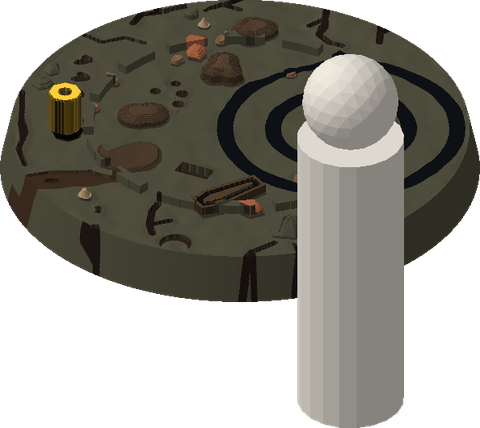
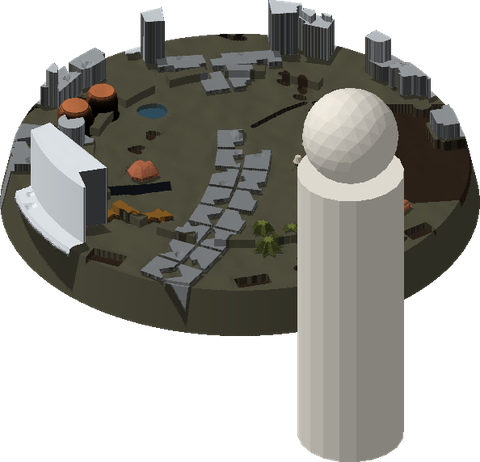
2.4.0: faster, a print plate (3MF), keys for everything, a window you can arrange, the 2.3.0 stop fixed, fresh example pictures

diff --git a/README.md b/README.md
@@ -44,7 +44,13 @@ version is always the one marked **Latest** on the [Releases page](https://githu
 download `bbb_kit_<version>.zip` there and unzip it anywhere. If the number in your `VERSION` file is lower than
 the one on that page, yours is an older one. (`python tools\make_release.py` makes the zip.)
 
-## New since 2.3.1 (in the repository, not in a release yet)
+## What is new in 2.4: faster, a print plate, keys for everything, a window you can arrange
+
+![Sixteen bases built by 2.4, two of every size from 30 to 160 mm](examples/sheet_2.4.0.png)
+
+*Sixteen bases freshly built by 2.4 with the default settings: two of every size from 30 to 160 mm.*
+
+**The 2.3.0 stop is fixed.** The urban style at 25 mm square no longer stops while drawing its choices.
 
 **Faster, and kinder to a game in front.** A 160 mm base builds in about 20-50 s instead of 70-115 s, and eight choice
 cards draw in a few seconds. Every base comes out byte for byte the same as before. The building runs at below-normal
@@ -89,6 +95,12 @@ goes on `plate_2.3mf` and on. Open it in the slicer: one object per base. The ST
 could become defaults:
 - `feet_pad`: a clear spot of plain textured ground for the figure's feet.
 - `small_base_cap`: at most 4-5 details on a base under 33 mm.
+
+**Mend a failed design (OFF by default).** When a picked design fails the print check on a mesh fault, the kit can first
+build the same design again with paper-thin faces cleaned up, before it makes a different variant. It saves about 1 in 5
+such bases, so it stays off; turn it on under "More settings" if you would rather keep your pick more often.
+
+With every new setting off, each base comes out byte for byte the same as in 2.3.
 
 ## What is new in 2.3 (and 2.3.1): square bases, a window that fits your screen, textured ground
 
@@ -437,20 +449,20 @@ thing apart; the print is one colour.
 
 ## What the bases look like
 
-Two bases of every size, each in a style drawn at random, exactly as the kit made them (pictures of the finished
+Two bases of every size, built by 2.4.0 with the default settings, exactly as the kit made them (pictures of the finished
 STL files; `python tools\make_examples.py` makes a fresh set).
 
 <!-- EXAMPLES -->
 | Size | | |
 |---|---|---|
-| **30 mm** | ![swamp 30 mm](examples/030mm_1_swamp.png)<br>swamp: "boat landing" | ![ashveil 30 mm](examples/030mm_2_ashveil.png)<br>ashveil: "buried transport" |
-| **40 mm** | ![graveyard 40 mm](examples/040mm_1_graveyard.png)<br>graveyard: "hanging tree" | ![beast 40 mm](examples/040mm_2_beast.png)<br>beast: "jaw line" |
-| **50 mm** | ![highland 50 mm](examples/050mm_1_highland.png)<br>highland: "ruined tower" | ![urban 50 mm](examples/050mm_2_urban.png)<br>urban: "bomb site" |
-| **60 mm** | ![cynder 60 mm](examples/060mm_1_cynder.png)<br>cynder: "ash burial" | ![sundered 60 mm](examples/060mm_2_sundered.png)<br>sundered: "fallen cathedral wall" |
-| **80 mm** | ![infestation 80 mm](examples/080mm_1_infestation.png)<br>infestation: "egg chamber" | ![corridor 80 mm](examples/080mm_2_corridor.png)<br>corridor: "airlock" |
-| **100 mm** | ![maahl 100 mm](examples/100mm_1_maahl.png)<br>maahl: "buried temple" | ![frontier 100 mm](examples/100mm_2_frontier.png)<br>frontier: "prospector s camp" |
-| **130 mm** | ![blight 130 mm](examples/130mm_1_blight.png)<br>blight: "spike garden" | ![obelis 130 mm](examples/130mm_2_obelis.png)<br>obelis: "glyph plaza" |
-| **160 mm** | ![mine 160 mm](examples/160mm_1_mine.png)<br>mine: "shaft head" | ![badlands 160 mm](examples/160mm_2_badlands.png)<br>badlands: "boot hill" |
+| **30 mm** | ![swamp 30 mm](examples/030mm_1_swamp.png)<br>swamp: "serpent pool" | ![highland 30 mm](examples/030mm_2_highland.png)<br>highland: "sheepfold" |
+| **40 mm** | ![graveyard 40 mm](examples/040mm_1_graveyard.png)<br>graveyard: "crypt door" | ![forest 40 mm](examples/040mm_2_forest.png)<br>forest: "stream ford" |
+| **50 mm** | ![urban 50 mm](examples/050mm_1_urban.png)<br>urban: "bomb site" | ![coast 50 mm](examples/050mm_2_coast.png)<br>coast: "jetty" |
+| **60 mm** | ![sundered 60 mm](examples/060mm_1_sundered.png)<br>sundered: "collapsed arcade" | ![temple 60 mm](examples/060mm_2_temple.png)<br>temple: "sealed vault" |
+| **80 mm** | ![infestation 80 mm](examples/080mm_1_infestation.png)<br>infestation: "overrun cargo" | ![dungeon 80 mm](examples/080mm_2_dungeon.png)<br>dungeon: "treasure hoard" |
+| **100 mm** | ![frontier 100 mm](examples/100mm_1_frontier.png)<br>frontier: "storefront" | ![trederra 100 mm](examples/100mm_2_trederra.png)<br>trederra: "gun pit" |
+| **130 mm** | ![fortress 130 mm](examples/130mm_1_fortress.png)<br>fortress: "armoury" | ![cynder 130 mm](examples/130mm_2_cynder.png)<br>cynder: "forge altar" |
+| **160 mm** | ![mine 160 mm](examples/160mm_1_mine.png)<br>mine: "tunnel mouth" | ![badlands 160 mm](examples/160mm_2_badlands.png)<br>badlands: "old diggings" |
 <!-- /EXAMPLES -->
 
 **Every base is one place.** A base is not a pile of objects: it has a subject (a mine shaft, a wreck, a shrine), a
